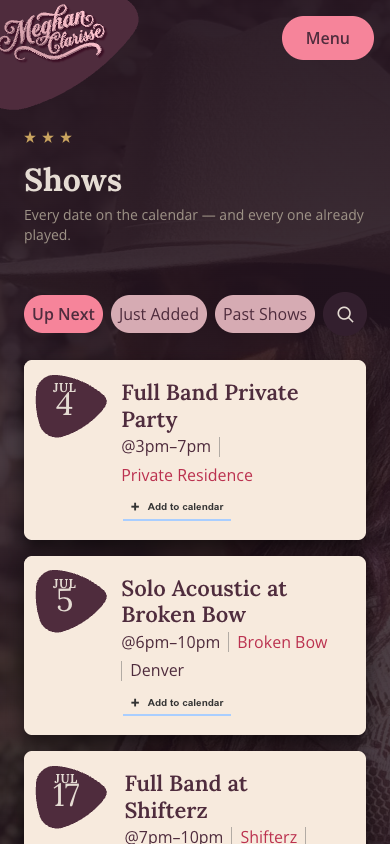
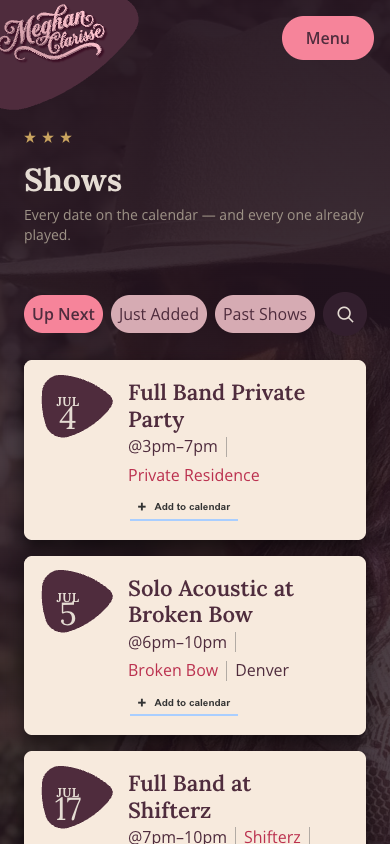
fix(shows): center the date badge month/day in the pick per Figma
Give the badge a fixed 56px frame (Figma 110:133 ×1.514) and push the
month/day down so they sit centered in the pick, matching the comp.
Measured against the 1:1 Figma export (3× render): month/day were sitting
in the pick's upper-left; now vertically centered like the comp. Pick
keeps its original rotate-only transform (orientation was already correct
from Sprint 3).

diff --git a/src/components/ShowCard/ShowCard.module.css b/src/components/ShowCard/ShowCard.module.css
@@ -40,7 +40,11 @@
   flex-direction: column;
   align-items: center;
   flex-shrink: 0;
-  padding: 3px 13px 0;
+  /* Fixed frame width (Figma 110:133 37.17 ×1.514) so the centred month/day
+     land in the pick's left lobe, with the pick offset right behind them. */
+  box-sizing: border-box;
+  width: 56px;
+  padding: 17px 0 0;
   color: var(--mc-text-primary);
 }
 
@@ -48,7 +52,7 @@
   /* Figma 110:134 places the pick behind the text, offset up-left from the
      badge origin (values ×1.514 from the mobile comp), not centered. */
   position: absolute;
-  left: -7px;
+  left: -1px;
   top: -10px;
   display: flex;
   align-items: center;
